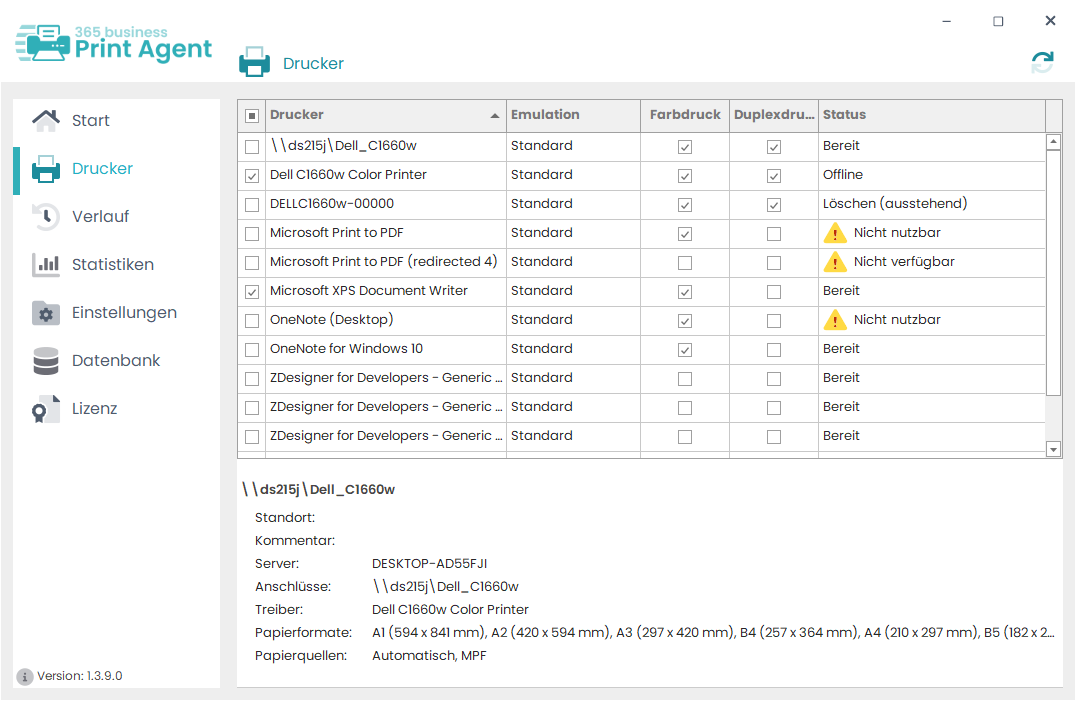
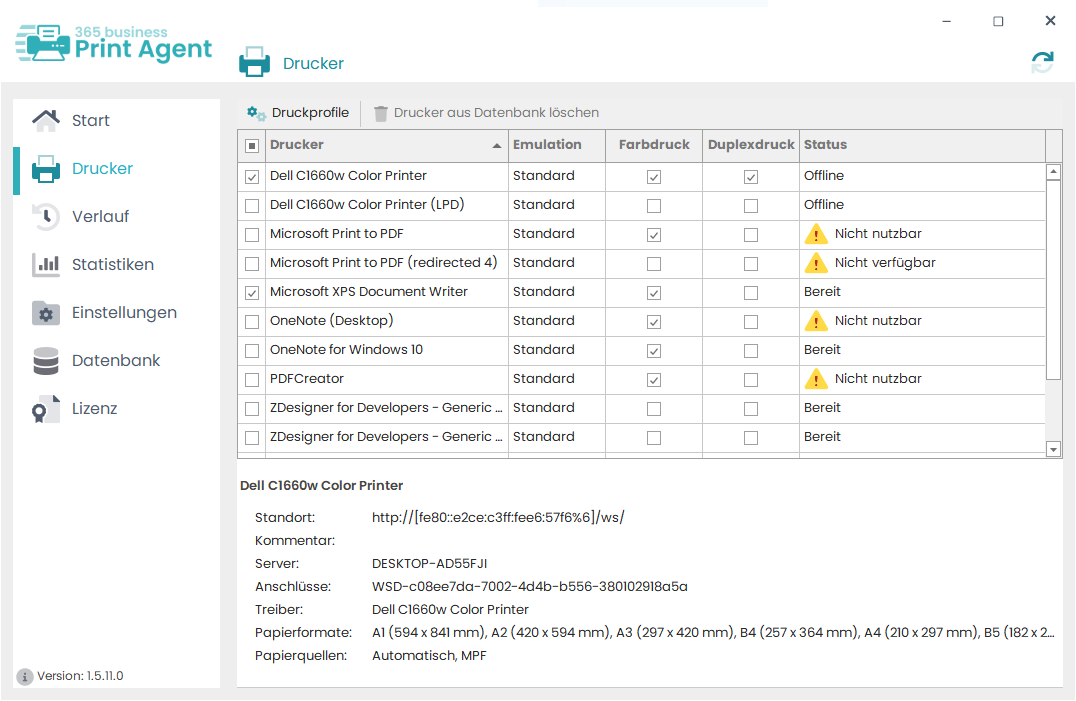
Add Print Profile Docs

diff --git a/_i18n/de-DE/_docs/365-business-print-agent/print-agent-config-printprofile.md b/_i18n/de-DE/_docs/365-business-print-agent/print-agent-config-printprofile.md
@@ -1,0 +1,62 @@
+Ein Druckprofil stellt eine spezielle Konfiguration Ihres Druckers dar, die erweiterte Funktionalitäten steuert.
+
+<div class="alert alert-notice">
+    <i class="fa-solid fa-notes"></i> <strong>Wichtig:</strong>Für die Verarbeitung von einfachen Druckaufträgen (Duplex, Kopien, Ausgabefarbe, Papierart, -fach) werden keine Druckprofile benötigt. Wenn jedoch erweiterte Funktionalitäten des Druckers genutzt werden sollen, ist dies über die Erstellung von Druckprofilen möglich.
+</div>
+
+Erweiterte Funktionalitäten sind z.B.:
+
+* Finishing-Optionen wie Klammern, Lochen und Binden,
+* Druckoptionen für Label-Drucker, wie Versatz, Temperatur und Druckgeschwindigkeit.
+
+## Erstellung eines Druckprofils:
+
+#### Schritt 1: Auswahl des Druckers
+
+Wählen Sie im 365 business Print Agent Config "Drucker" aus und markieren Sie den Drucker, für den Sie ein Druckprofil erstellen möchten. Wählen Sie anschließend den Menüpunkt "Druckprofile".
+
+![Druckerverwaltung](/assets/images/365-business-print-agent/config-tool/Printer.PNG) 
+
+#### Schritt 2: Verwaltung der Druckprofile
+
+Im folgenden Dialog werden alle vorhandenen Druckprofile für den ausgewählten Drucker angezeigt. Es besteht die Möglichkeit, Druckprofile zu erstellen, zu bearbeiten und zu löschen. Bestätigen Sie Ihre Änderungen mit dem Button "Speichern", um sie in der Datenbank zu hinterlegen.
+
+![Druckprofilverwaltung](/assets/images/365-business-print-agent/config-tool/PrintProfileOverview.PNG) 
+
+#### Schritt 3: Erstellung eines Druckprofils
+
+Klicken Sie auf "Neu", um ein Druckprofil zu erstellen. Es öffnet sich ein Assistent, der Sie durch den Vorgang führt. 
+Nach einem Einführungstext werden Sie gebeten, eine PDF-Datei für den Probedruck auszuwählen. Nach der Auswahl der PDF klicken Sie auf "Weiter".
+
+<div class="alert alert-info">
+    <i class="fa-solid fa-lightbulb"></i> <strong>Hinweis:</strong> Beachten Sie, dass das ausgewählte PDF tatsächlich gedruckt wird.
+</div>
+
+![Wizard-1](/assets/images/365-business-print-agent/config-tool/PrintProfileWizard2.PNG)
+
+Auf der nächsten Seite können Sie über den Button "Konfigurieren" den Dialog zur Druckeinstellung aufrufen. 
+Nehmen Sie Ihre Konfiguration vor und bestätigen Sie diese mit "OK". Das PDF wird dann gedruckt.<br/>
+Überprüfen Sie das Druckergebnis und, falls es Ihren Anforderungen entspricht, klicken Sie auf "Weiter", um fortzufahren. 
+Wenn das Ergebnis nicht zufriedenstellend ist, können Sie die Einstellungen über "Konfigurieren" weiter anpassen.
+
+![Wizard-2](/assets/images/365-business-print-agent/config-tool/PrintProfileWizard3.PNG) 
+
+<div class="alert alert-info">
+    <i class="fa-solid fa-lightbulb"></i> <strong>Hinweis:</strong> Der Dialog zur Anpassung der Druckeinstellungen kann je nach Drucker unterschiedlich aussehen.
+</div>
+![Druckeinstellungen-SATO](/assets/images/365-business-print-agent/config-tool/sato_Druckeinstellungen.PNG) 
+
+Im letzten Schritt geben Sie dem Druckprofil einen Namen. Unter diesem Namen finden Sie das Druckprofil dann in der 365 business Print Agent App in Microsoft Dynamics Business Central.
+
+![Wizard-3](/assets/images/365-business-print-agent/config-tool/PrintProfileWizard4.PNG) 
+
+Nach erfolgreicher Einrichtung können Sie den Assistenten beenden.
+
+#### Schritt 4: Speichern der Druckprofile
+
+Wählen Sie "Speichern", um das Druckprofil anzulegen und es in der 365 business Print Agent App zur Verfügung zu stellen.
+
+
+<div class="alert alert-info">
+    <i class="fa-solid fa-lightbulb"></i> <strong>Hinweis:</strong>Um die Druckprofile zu nutzen, müssen die Drucker in der 365 business Print Agent App erneut abgerufen werden. <a href="../print-agent-config-printers/">Hier</a> erfahren Sie mehr.
+</div><br/>

diff --git a/_i18n/en-US/_docs/365-business-print-agent/print-agent-config-printprofile.md b/_i18n/en-US/_docs/365-business-print-agent/print-agent-config-printprofile.md
@@ -1,0 +1,61 @@
+A print profile represents a specific configuration of your printer that controls advanced functionalities.
+
+<div class="alert alert-notice">
+    <i class="fa-solid fa-notes"></i> <strong>Important:</strong>For basic print jobs (duplex, copies, output color, paper type, tray), print profiles are not required. However, if you want to use the printer's advanced features, you need to create a print profile.
+</div>
+
+Advanced functionalities include:
+
+* Finishing options such as stapling, punching, and binding,
+* Printing options for label printers, such as offset, temperature, and print speed.
+
+## Creating a Print Profile:
+
+#### Step 1: Select the Printer
+
+In the 365 business Print Agent Config, select “Printers” and mark the printer for which you want to create a print profile. Then select the "Print Profiles" menu.
+
+![Druckerverwaltung](/assets/images/365-business-print-agent/config-tool/Printer_en.PNG) 
+
+#### Step 2: Managing Print Profiles
+
+In the next dialog, all existing print profiles for the selected printer will be displayed. You have the option to create, edit, and delete print profiles. By clicking the "Save" button, your changes will be stored in the database.
+
+![Druckprofilverwaltung](/assets/images/365-business-print-agent/config-tool/PrintProfileOverview_en.PNG) 
+
+#### Step 3: Creating a Print Profile
+
+Click "New" to create a new print profile. A wizard will open to guide you through the process. 
+After an introduction, you will be asked to select a PDF file for a test print. After selecting the PDF, click "Next."
+
+<div class="alert alert-info">
+    <i class="fa-solid fa-lightbulb"></i> <strong>Note:</strong> Keep in mind that the selected PDF will be printed.
+</div>
+
+![Wizard-1](/assets/images/365-business-print-agent/config-tool/PrintProfileWizard2_en.PNG)
+
+On the next page, you can click the "Configure" button to open the print settings dialog. 
+Make the necessary adjustments and confirm by clicking "OK." The PDF will then be printed.<br/>
+Please check the print result. If it meets your requirements, click "Next" to proceed. 
+If the result is unsatisfactory, you can refine the settings by clicking "Configure" again.
+
+![Wizard-2](/assets/images/365-business-print-agent/config-tool/PrintProfileWizard3_en.PNG) 
+
+<div class="alert alert-info">
+    <i class="fa-solid fa-lightbulb"></i> <strong>Note:</strong> The print settings dialog may look different depending on the printer used.
+</div>
+![Druckeinstellungen-SATO](/assets/images/365-business-print-agent/config-tool/sato_Druckeinstellungen.PNG) 
+
+In the final step, you will give the print profile a name. Under this name, the print profile will be available in the 365 business Print Agent App in Microsoft Dynamics Business Central.
+
+![Wizard-3](/assets/images/365-business-print-agent/config-tool/PrintProfileWizard4_en.PNG) 
+
+Nach erfolgreicher Einrichtung können Sie den Assistenten beenden.
+
+#### Step 4: Saving the Print Profile
+
+Click "Save" to create the print profile and make it available in the 365 business Print Agent App.
+
+<div class="alert alert-info">
+    <i class="fa-solid fa-lightbulb"></i> <strong>Note:</strong>To use the print profiles, you must refresh the printers in the 365 business Print Agent App. <a href="../print-agent-config-printers/">Learn more.</a>
+</div><br/>

diff --git a/_docs/365-business-print-agent/print-agent-config-printprofile.md b/_docs/365-business-print-agent/print-agent-config-printprofile.md
@@ -1,0 +1,11 @@
+---
+title: print-agent-config-printprofile
+subcategory: print-agent-config
+category: 365-business-print-agent
+permalink: /365-business-print-agent/print-agent-config-printprofile/
+order: 2
+
+namespace: 365-business-print-agent
+---
+
+{% tf _docs/365-business-print-agent/print-agent-config-printprofile.md %}

diff --git a/_docs/365-business-print-agent/print-agent-config-connections.md b/_docs/365-business-print-agent/print-agent-config-connections.md
@@ -3,7 +3,7 @@ title: print-agent-config-connections
 subcategory: print-agent-config
 category: 365-business-print-agent
 permalink: /365-business-print-agent/print-agent-config-connections/
-order: 2
+order: 3
 
 namespace: 365-business-print-agent
 ---

diff --git a/_docs/365-business-print-agent/print-agent-config-statistics.md b/_docs/365-business-print-agent/print-agent-config-statistics.md
@@ -3,7 +3,7 @@ title: print-agent-config-statistics
 subcategory: print-agent-config
 category: 365-business-print-agent
 permalink: /365-business-print-agent/print-agent-config-statistics/
-order: 4
+order: 5
 
 namespace: 365-business-print-agent
 ---

diff --git a/_docs/365-business-print-agent/print-agent-config-databases.md b/_docs/365-business-print-agent/print-agent-config-databases.md
@@ -3,7 +3,7 @@ title: print-agent-config-databases
 subcategory: print-agent-config
 category: 365-business-print-agent
 permalink: /365-business-print-agent/print-agent-config-databases/
-order: 3
+order: 4
 
 namespace: 365-business-print-agent
 ---
